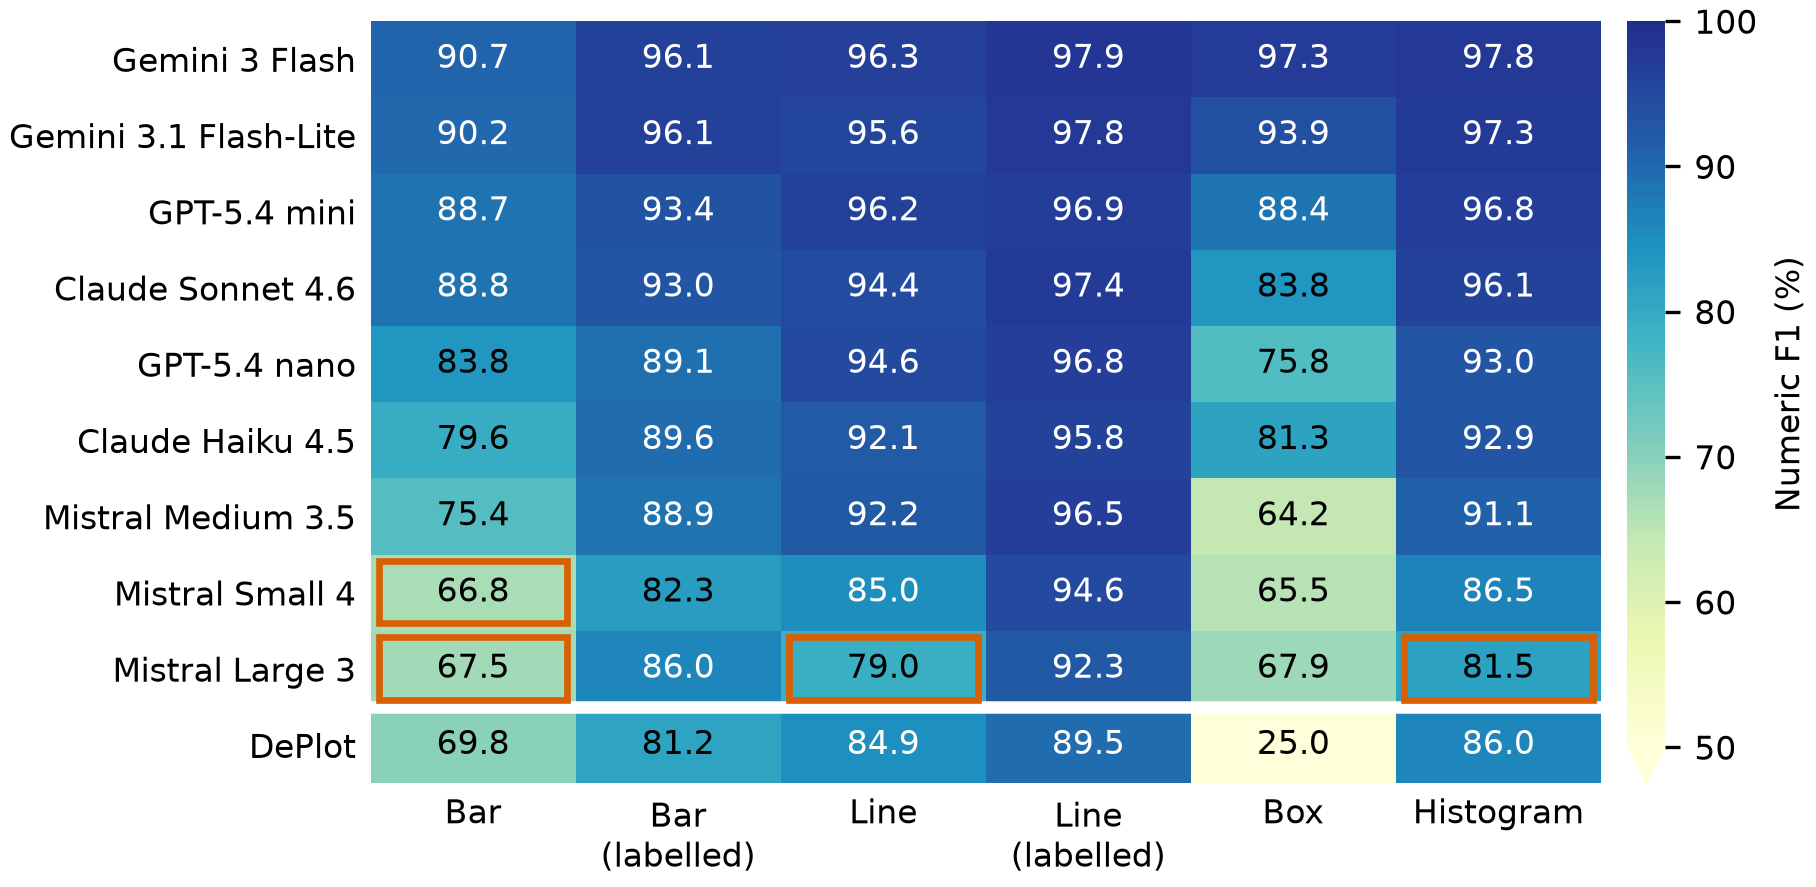
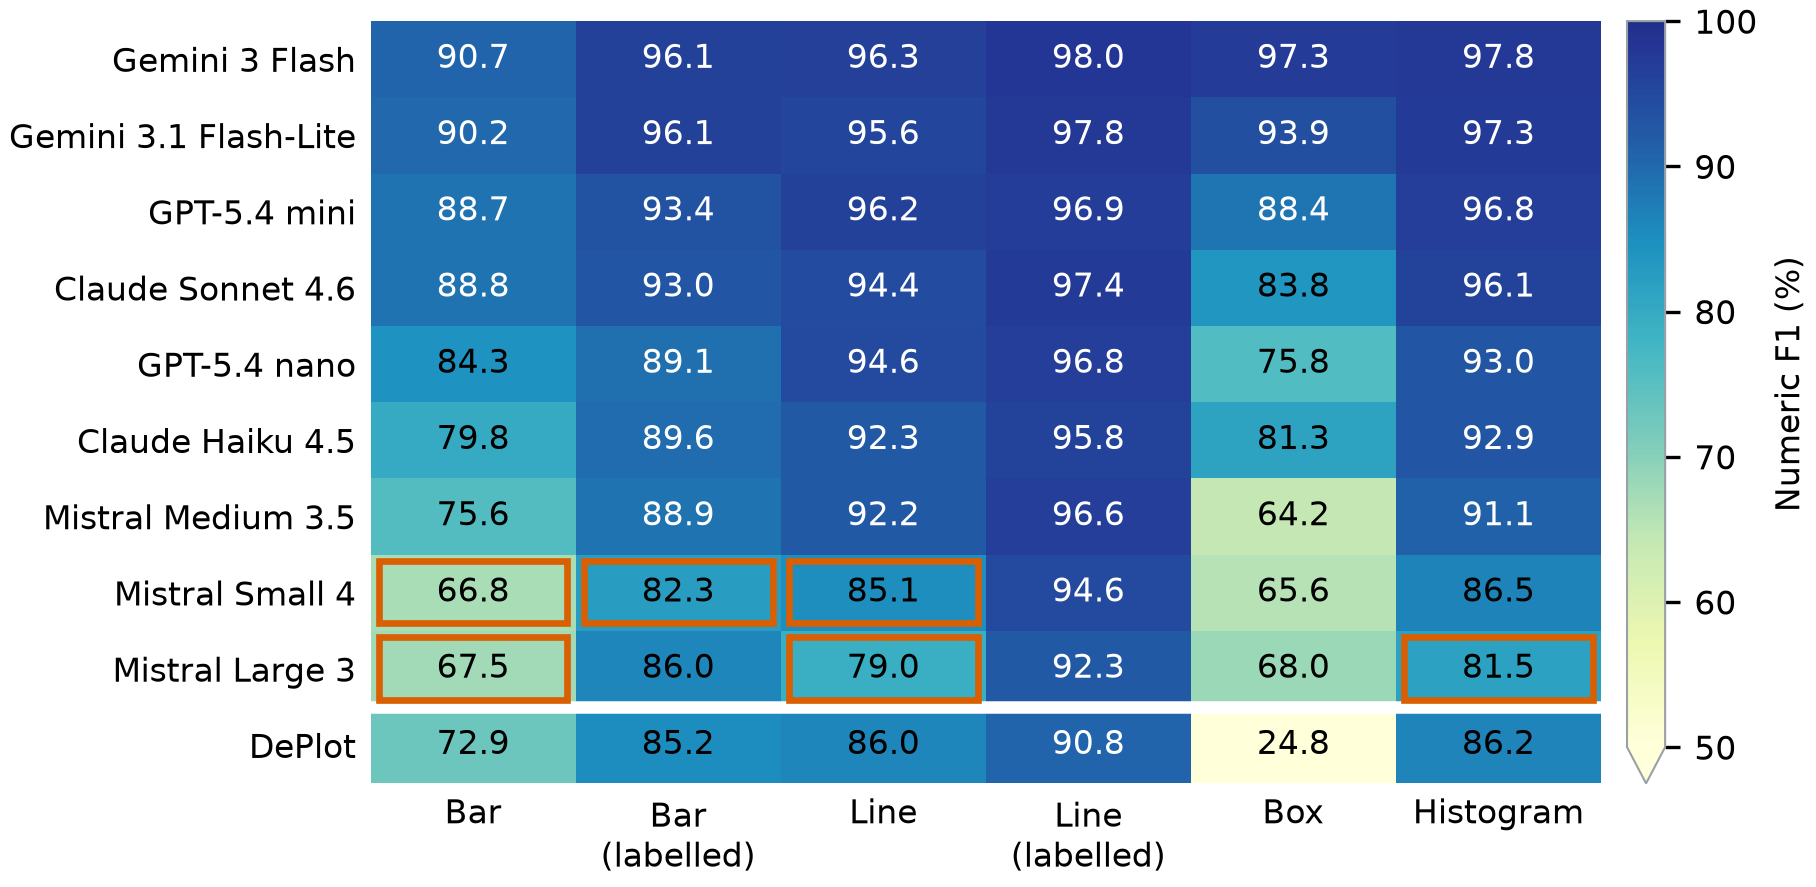
Update the app's benchmark text for the corrected scoring
The paper's PlotQA scores were computed against the wrong axis and DePlot's title line was scored as output. With both fixed, Haiku 4.5 scores 88.7% on ChartX and 70.2% on PlotQA, six cells trail DePlot on ChartX, and on PlotQA DePlot (87.0%) is matched by two of six models and ahead of four.

- models.py: blurbs and the comment above them carry the corrected scores and no longer quote an interval that no script prints.
- streamlit_app.py: the Benchmarks panel states the PlotQA result and stops calling Opus 5.5 a default model; the confidence help no longer suggests that only low scores need checking.
- README.md: a PlotQA column in the Models table and both results in the Benchmarks section.
- assets/: Figures 1 and 2 regenerated.

diff --git a/streamlit_app.py b/streamlit_app.py
@@ -546,22 +546,24 @@ with st.sidebar:
             str(Path(__file__).parent / "assets" / "chartx_heatmap.png"),
             caption=(
                 "Numeric F1 (%) by model and chart type. Orange outlines mark "
-                "the four cells where a model scores below DePlot"
+                "the six cells where a model scores below DePlot"
             ),
         )
         st.caption(
             "Numeric F1 is the F1 between the numbers a model extracts and "
             "the numbers in the ground truth, matched within 5%; it does not "
-            "check that a value sits in the right group. Across six chart "
-            "types all nine vision-language models tested score above "
-            "DePlot, a dedicated chart-to-table model, though the two "
-            "weakest trail it on some chart types. Charts that print their "
-            "values as data labels are easier for every system. "
+            "check that a value sits in the right group. Across six ChartX "
+            "chart types all nine vision-language models tested score above "
+            "DePlot, a dedicated chart-to-table model, mostly because of "
+            "box plots; the two weakest trail it on some chart types. On a "
+            "second benchmark, a PlotQA subset whose charts print no "
+            "values, DePlot scores 87.0%: two of six models match or "
+            "slightly exceed it and four fall below it, Haiku 4.5 at 70.2%. "
             "These are synthetic charts read with a two-sentence prompt: "
             "the benchmark did not test this app's own prompt, did not "
-            "include its default models (Sonnet 5.5, Opus 5.5), and says "
-            "nothing yet about real biomedical figures. Check every "
-            "extracted value against its figure."
+            "include Sonnet 5.5 or Opus 5.5, and says nothing yet about "
+            "real biomedical figures. Check every extracted value against "
+            "its figure."
         )
 
 
@@ -673,9 +675,10 @@ with tab_results:
                 "| 95--100 | Crisp axes, clear ticks, values easy to read exactly |\n"
                 "| 80--94 | Good axes but some interpolation between ticks needed |\n"
                 "| 60--79 | Small figure, overlapping elements, or missing ticks |\n"
-                "| < 60 | Largely guessing -- consider manual verification |\n\n"
-                "**Tip:** Always cross-check extracted values against the original "
-                "figure, especially when confidence is below 80.\n\n"
+                "| < 60 | Largely guessing |\n\n"
+                "**Tip:** Check every extracted value against the original "
+                "figure, whatever the score. Whether the score picks out the "
+                "figures that were read wrongly has not been tested.\n\n"
                 "Cells highlighted in amber are individual values the model "
                 "flagged as uncertain (e.g. overlapping boxes, blurry regions)."
             )

diff --git a/models.py b/models.py
@@ -39,24 +39,26 @@ class Model:
 
 # Ordered -- the first entry is the default selection.
 #
-# Sonnet leads.  The ChartX validation split was run on the previous Sonnet,
-# 4.6, which reached 92.2% numeric F1 against Haiku 4.5's 88.6% -- a +3.8
-# point gap on the 299 figures both have, paired 95% bootstrap interval
-# [+2.8, +4.9] (results/final_val/ in the plotpick-validation repository).
-# Sonnet 5.5 replaces it at a lower per-token price and has not been
-# benchmarked.
+# Sonnet leads.  Sonnet 5.5 has not been benchmarked.  The previous Sonnet,
+# 4.6, scored 92.2% numeric F1 on the ChartX validation split against Haiku
+# 4.5's 88.7%, and 89.0% against 70.2% on the PlotQA subset, whose charts
+# print no values (results/ in the plotpick-validation repository).  Sonnet
+# 5.5 replaces 4.6 at a lower per-token price.
 MODELS: tuple[Model, ...] = (
     Model(
         short_name="Sonnet 5.5",
         model_id="claude-sonnet-5-5",
         needs_own_key=False,
-        blurb="Latest Sonnet. Not benchmarked; Sonnet 4.6 scored 92.2% on ChartX.",
+        blurb=(
+            "Latest Sonnet. Not benchmarked; Sonnet 4.6 scored 92.2% on ChartX "
+            "and 89.0% on PlotQA."
+        ),
     ),
     Model(
         short_name="Haiku 4.5",
         model_id="claude-haiku-4-5-20251001",
         needs_own_key=False,
-        blurb="Faster and cheaper -- 88.6% numeric F1 on ChartX.",
+        blurb="Faster and cheaper. 88.7% numeric F1 on ChartX, 70.2% on PlotQA.",
     ),
     Model(
         short_name="Opus 5.5",

diff --git a/README.md b/README.md
@@ -68,13 +68,13 @@ flowchart TD
 
 Pick the model in the sidebar. Sonnet and Haiku run on the key the app is configured with; Opus 5.5 runs only on a key the visitor pastes in, which appears as a key box when Opus is selected.
 
-| Model | Model ID | Key | ChartX numeric F1 |
-|-------|----------|-----|-------------------|
-| Sonnet 5.5 (default) | `claude-sonnet-5-5` | app key | not benchmarked |
-| Haiku 4.5 | `claude-haiku-4-5-20251001` | app key | 88.6% |
-| Opus 5.5 | `claude-opus-5-5` | your own key only | not benchmarked |
+| Model | Model ID | Key | ChartX numeric F1 | PlotQA numeric F1 |
+|-------|----------|-----|-------------------|-------------------|
+| Sonnet 5.5 (default) | `claude-sonnet-5-5` | app key | not benchmarked | not benchmarked |
+| Haiku 4.5 | `claude-haiku-4-5-20251001` | app key | 88.7% | 70.2% |
+| Opus 5.5 | `claude-opus-5-5` | your own key only | not benchmarked | not benchmarked |
 
-Numeric F1 is the F1 between the numbers a model extracts and the numbers in the ground truth, matched within 5%, on six chart types of the ChartX validation split (synthetic charts, 50 per type). That benchmark was run on the previous Sonnet, 4.6, which scored 92.2% and led Haiku 4.5 by 3.8 points on the 299 figures both models have (paired 95% interval [2.8, 4.9]). Sonnet 5.5 replaces it as the default at a lower per-token price and has not been benchmarked; Haiku 4.5 is the cheaper and faster option. See [Benchmarks](#benchmarks) for what these numbers do not cover.
+Numeric F1 is the F1 between the numbers a model extracts and the numbers in the ground truth, matched within 5%. The ChartX column is six chart types of the ChartX validation split (synthetic charts, 50 per type); the PlotQA column is a 529-chart subset of PlotQA whose charts print no values, so every number has to be read from an axis, scored on the best-matching series of the reply. Both were run on the previous Sonnet, 4.6, which scored 92.2% and 89.0%. Sonnet 5.5 replaces it as the default at a lower per-token price and has not been benchmarked; Haiku 4.5 is the cheaper and faster option, and the PlotQA column shows what that costs on charts without printed values. See [Benchmarks](#benchmarks) for what these numbers do not cover.
 
 ## Troubleshooting
 
@@ -96,9 +96,12 @@ The two figures in the app's Benchmarks panel (`assets/chartx_by_type.png`, `ass
 
 What the benchmark does and does not show:
 
-- It scores nine vision-language models and DePlot on six chart types of the ChartX validation split (synthetic charts) and six of the models on a PlotQA subset.
+- It scores nine vision-language models and DePlot, a dedicated chart-to-table model, on six chart types of the ChartX validation split (synthetic charts) and six of the models on a PlotQA subset.
+- On ChartX all nine models score above DePlot in aggregate (79.1-96.0% against 74.3%), mostly because of box plots, where DePlot returns one value per box. On the other five chart types the two weakest models do not lead it.
+- On the PlotQA subset DePlot scores 87.0%. Two of the six models match or slightly exceed it (89.2% and 89.0%) and four fall below it (83.2% down to 56.7%). General-purpose models are not uniformly better than a dedicated one.
 - It uses a two-sentence prompt, not this app's structured prompt, and it scores the numbers only, not the group, timepoint, error-bar or group-size fields the app returns.
-- The app's default models, Sonnet 5.5 and Opus 5.5, were not benchmarked.
+- The app's default model, Sonnet 5.5, and Opus 5.5 were not benchmarked.
+- An earlier version of the paper and of this README reported higher PlotQA scores and a larger lead over DePlot. Those came from scoring errors, which the paper's section "Changes from version 1" describes.
 - Accuracy on real biomedical figures has not been established. Check every extracted value against its figure.
 
 ## Requirements
